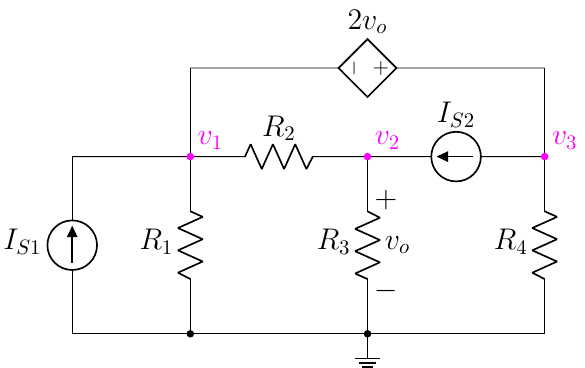
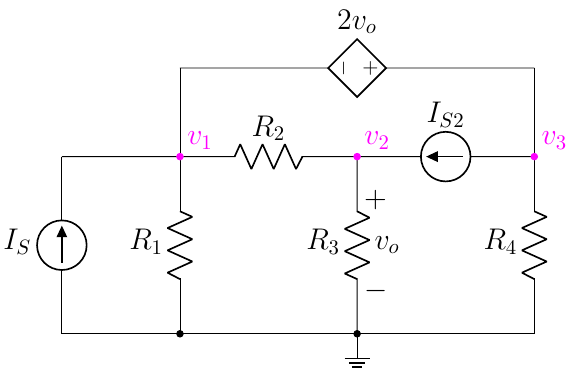
edit 5 (maybe)

diff --git a/1.4 Supernode/3.3 Super Nodal Analysis/5(new).tex b/1.4 Supernode/3.3 Super Nodal Analysis/5(new).tex
@@ -2,7 +2,7 @@
 \begin{document}
 \begin{circuitikz}[american]
     %%% vertical %%%
-    \draw (-2,0) to[I, l=\isname{1}] ++(0,3);
+    \draw (-2,0) to[I, l=\isname{}] ++(0,3);
 
     \draw (0,0) to[R, l=\rname{1}] ++(0,3) to[short,-] ++(0,1.5);
 
